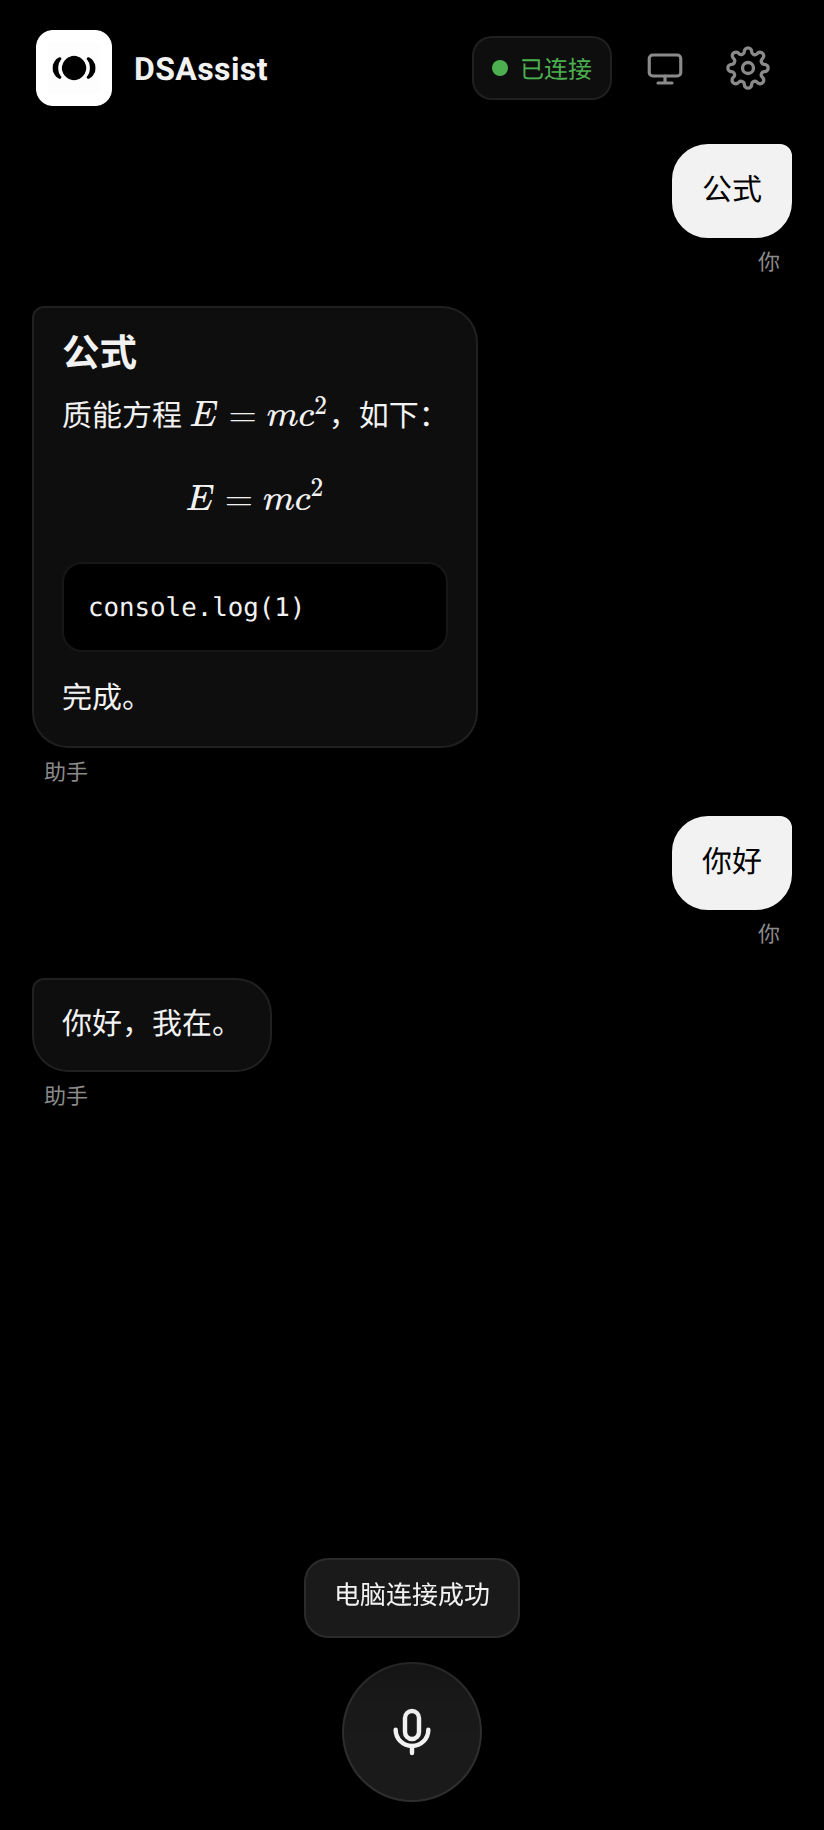
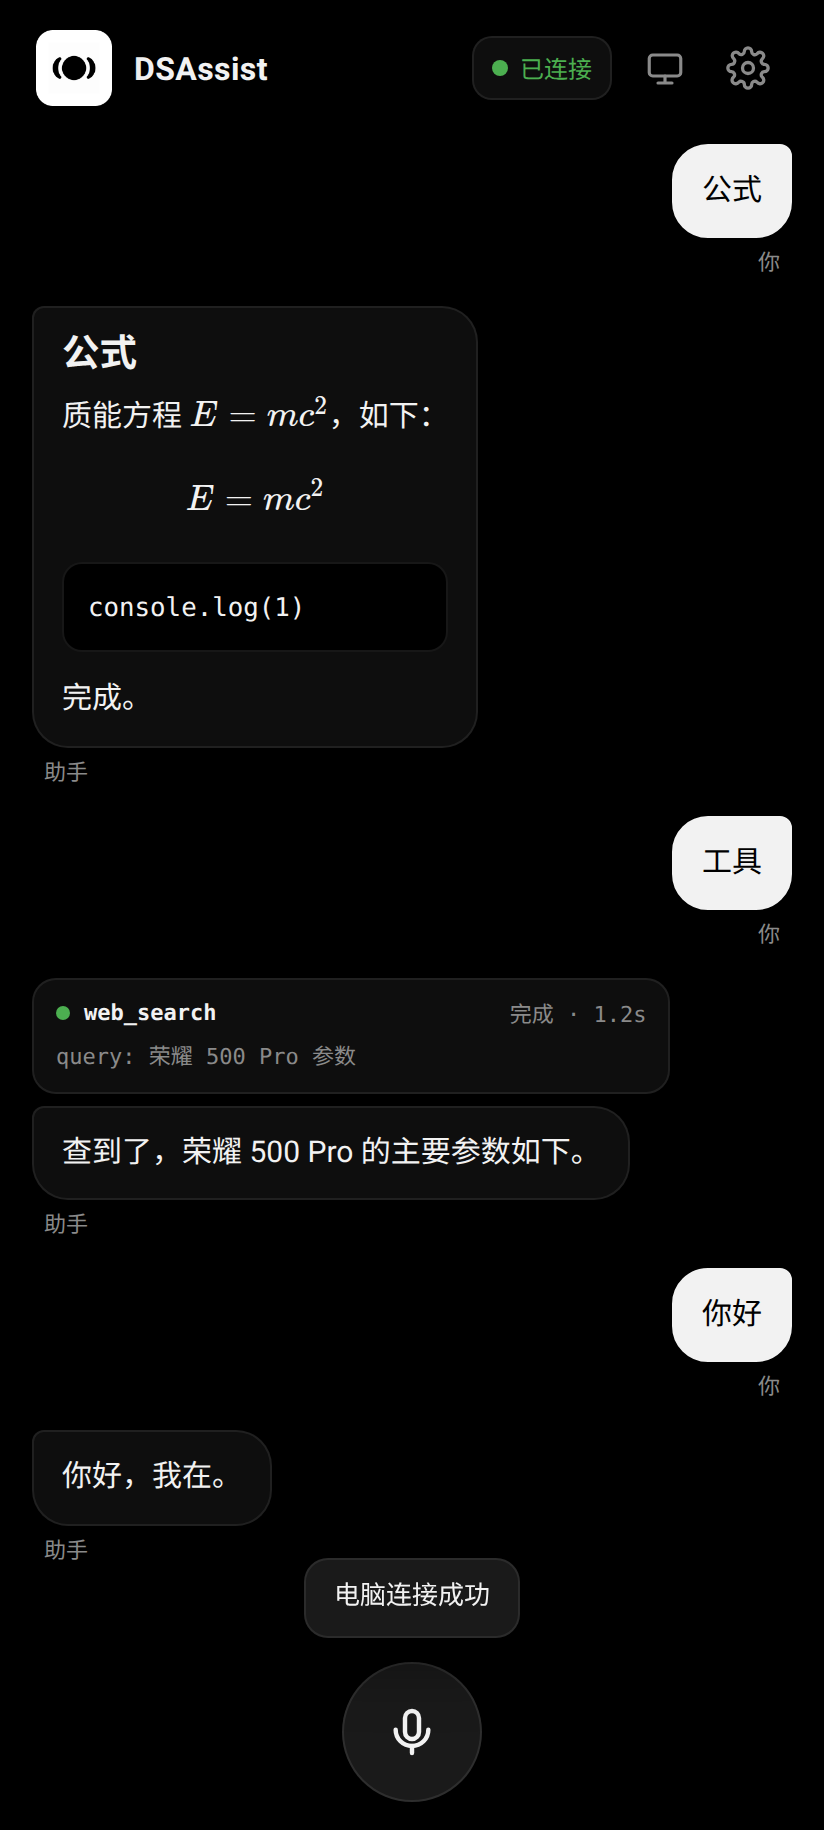
v1.0.12: tool timing trace and DSAssist paths

diff --git a/app/src/main/assets/js/features/chat/chat.js b/app/src/main/assets/js/features/chat/chat.js
@@ -51,10 +51,10 @@ function buildMessages() {
     hints.push('需要精确计算时调用 calculator 工具');
   }
   if (state.settings.opencodeEnabled) {
-    hints.push('需要分析代码时调用 ask_opencode，让电脑上的 opencode 只读分析项目 /home/user/dsassist-iterate');
+    hints.push('需要分析代码时调用 ask_opencode，让电脑上的 opencode 只读分析项目 /home/user/DSAssist-iterate');
   }
   if (state.settings.opencodeWriteEnabled) {
-    hints.push('需要修改代码时调用 edit_opencode，只允许修改 /home/user/dsassist-iterate；修改前说明计划，修改后说明 diff 和验证结果，禁止访问项目外目录和密钥文件');
+    hints.push('需要修改代码时调用 edit_opencode，只允许修改 /home/user/DSAssist-iterate；修改前说明计划，修改后说明 diff 和验证结果，禁止访问项目外目录和密钥文件');
   }
   const system = {
     role: 'system',
@@ -93,6 +93,7 @@ export function sendText(raw) {
   assistant.bubble.classList.add('streaming');
   state.assistantMsg = assistant.message;
   state.assistantBubble = assistant.bubble;
+  state.assistantTrace = assistant.trace;
   state.chatId = uid();
   ui.setStatus('思考中…');
 
@@ -129,7 +130,7 @@ export function handleToken(id, token) {
   }
 }
 
-export function handleTool(id, name) {
+export function handleToolStarted(id, name, argumentsJson) {
   if (id !== state.chatId) return;
   state.ttsStopIgnore++;
   callBridge('stopSpeaking');
@@ -143,8 +144,15 @@ export function handleTool(id, name) {
     state.assistantMsg.content = '';
     if (state.assistantBubble) state.assistantBubble.innerHTML = '';
   }
+  ui.addToolTrace(state.assistantTrace, name, argumentsJson);
   const label = name === 'web_search' ? '联网搜索中…' : name === 'calculator' ? '计算中…' : '使用工具…';
   ui.setStatus(label);
+}
+
+export function handleToolFinished(id, name, durationMs, success) {
+  if (id !== state.chatId) return;
+  ui.finishToolTrace(state.assistantTrace, name, durationMs, success);
+  ui.setStatus(success ? '工具完成，继续回答…' : '工具失败，继续回答…');
 }
 
 export function handleDone(id, full) {
@@ -161,6 +169,7 @@ export function handleDone(id, full) {
   }
   state.assistantMsg = null;
   state.assistantBubble = null;
+  state.assistantTrace = null;
   state.busy = false;
   ui.updateControls();
   if (!state.speaking) ui.setStatus('');
@@ -188,6 +197,7 @@ export function handleError(id, message) {
   }
   state.assistantMsg = null;
   state.assistantBubble = null;
+  state.assistantTrace = null;
   state.busy = false;
   ui.updateControls();
   ui.setStatus('');
@@ -211,6 +221,7 @@ export function abandonResponseForBargeIn() {
     }
     state.assistantMsg = null;
     state.assistantBubble = null;
+    state.assistantTrace = null;
     state.chatId = null;
     state.busy = false;
     ui.updateControls();

diff --git a/app/src/main/assets/js/ui/ui.js b/app/src/main/assets/js/ui/ui.js
@@ -225,10 +225,14 @@ function createMessageNode(message) {
   meta.className = 'meta';
   meta.textContent = message.role === 'user' ? '你' : '助手';
 
+  const trace = document.createElement('div');
+  trace.className = 'tool-trace hidden';
+
   messageMenu.bind(bubble, message);
+  if (message.role === 'assistant') row.appendChild(trace);
   row.appendChild(bubble);
   row.appendChild(meta);
-  return { row, bubble };
+  return { row, bubble, trace };
 }
 
 export function renderAssistantContent(bubble, text) {
@@ -243,7 +247,56 @@ export function appendMessage(role, content) {
   els.messages.appendChild(node.row);
   updateEmptyState();
   scrollToBottom(true);
-  return { message, bubble: node.bubble };
+  return { message, bubble: node.bubble, trace: node.trace };
+}
+
+function formatToolArgs(raw) {
+  try {
+    const value = JSON.parse(raw || '{}');
+    return Object.entries(value)
+      .map(([key, item]) => `${key}: ${String(item)}`)
+      .join('\n')
+      .slice(0, 240);
+  } catch (_) {
+    return String(raw || '').slice(0, 240);
+  }
+}
+
+export function addToolTrace(trace, name, argumentsJson) {
+  if (!trace) return;
+  trace.classList.remove('hidden');
+  const card = document.createElement('div');
+  card.className = 'tool-card running';
+  card.dataset.name = name;
+  const head = document.createElement('div');
+  head.className = 'tool-head';
+  const dot = document.createElement('span');
+  dot.className = 'tool-dot';
+  const title = document.createElement('span');
+  title.className = 'tool-name';
+  title.textContent = name;
+  const time = document.createElement('span');
+  time.className = 'tool-time';
+  time.textContent = '运行中…';
+  head.append(dot, title, time);
+  card.appendChild(head);
+  const args = document.createElement('div');
+  args.className = 'tool-args';
+  args.textContent = formatToolArgs(argumentsJson);
+  card.appendChild(args);
+  trace.appendChild(card);
+  scrollToBottom();
+}
+
+export function finishToolTrace(trace, name, durationMs, success) {
+  if (!trace) return;
+  const cards = Array.from(trace.querySelectorAll('.tool-card.running'));
+  const card = cards.reverse().find((item) => item.dataset.name === name);
+  if (!card) return;
+  card.classList.remove('running');
+  card.classList.add(success ? 'done' : 'failed');
+  const time = card.querySelector('.tool-time');
+  if (time) time.textContent = `${success ? '完成' : '失败'} · ${(durationMs / 1000).toFixed(1)}s`;
 }
 
 export function removeMessage(message) {

diff --git a/tools/ui-preview/run.js b/tools/ui-preview/run.js
@@ -97,6 +97,11 @@ await page.evaluateOnNewDocument(() => {
         window.Native.onChatToken(id, '```js\nconsole.log(1)\n```\n');
         window.Native.onChatToken(id, '完成。');
         window.Native.onChatDone(id, full);
+      } else if (lastUser.includes('工具')) {
+        window.Native.onChatToken(id, '我先查一下。');
+        setTimeout(() => window.Native.onToolStarted(id, 'web_search', JSON.stringify({ query: '荣耀 500 Pro 参数' })), 350);
+        setTimeout(() => window.Native.onToolFinished(id, 'web_search', 1234, true), 1500);
+        setTimeout(() => window.Native.onChatDone(id, '查到了，荣耀 500 Pro 的主要参数如下。'), 1700);
       } else {
         window.Native.onChatToken(id, '你好，');
         window.Native.onChatToken(id, '我在。');
@@ -193,6 +198,14 @@ await page.evaluate(({ x, y }) => {
 await new Promise((resolve) => setTimeout(resolve, 80));
 const copiedLength = await page.evaluate(() => (window.__copied || '').length);
 if (!copiedLength) throw new Error('message copy action did not run');
+await page.evaluate(() => {
+  document.getElementById('textInput').value = '';
+});
+await page.type('#textInput', '工具');
+await page.click('#sendBtn');
+await new Promise((resolve) => setTimeout(resolve, 1800));
+await shot('08-tool-trace.png');
+
 await page.click('#settingsBtn');
 await new Promise((resolve) => setTimeout(resolve, 150));
 await shot('03-settings.png');

diff --git a/app/src/main/assets/css/app.css b/app/src/main/assets/css/app.css
@@ -162,6 +162,54 @@
 
   .msg-row.user { align-items: flex-end; }
 
+  .tool-trace {
+    width: 84%;
+    display: flex;
+    flex-direction: column;
+    gap: 6px;
+    margin-bottom: 2px;
+  }
+
+  .tool-trace.hidden { display: none; }
+
+  .tool-card {
+    padding: 9px 11px;
+    border-radius: 12px;
+    border: 1px solid var(--border);
+    background: var(--panel);
+    font-family: ui-monospace, SFMono-Regular, Menlo, Consolas, monospace;
+    font-size: 11px;
+  }
+
+  .tool-head {
+    display: flex;
+    align-items: center;
+    gap: 7px;
+  }
+
+  .tool-dot {
+    width: 7px;
+    height: 7px;
+    border-radius: 50%;
+    background: #B07A4A;
+  }
+
+  .tool-card.running .tool-dot { animation: blink 1s steps(2, start) infinite; }
+  .tool-card.done .tool-dot { background: #4CAF50; }
+  .tool-card.failed .tool-dot { background: #C05050; }
+
+  .tool-name { color: var(--text); font-weight: 700; }
+  .tool-time { margin-left: auto; color: var(--muted); }
+  .tool-args {
+    margin-top: 6px;
+    color: var(--muted);
+    line-height: 1.45;
+    white-space: pre-wrap;
+    word-break: break-word;
+    max-height: 72px;
+    overflow: hidden;
+  }
+
   .bubble {
     max-width: 84%;
     padding: 11px 14px;

diff --git a/app/src/main/assets/js/features/settings/settings.js b/app/src/main/assets/js/features/settings/settings.js
@@ -20,7 +20,7 @@ export function openSettings() {
   ui.els.headsetMicInput.checked = state.settings.headsetMicEnabled === true;
   ui.els.opencodeEnabledInput.checked = state.settings.opencodeEnabled === true;
   ui.els.opencodeWriteInput.checked = state.settings.opencodeWriteEnabled === true;
-  ui.els.pcProjectInput.value = state.settings.pcProject || '/home/user/dsassist-iterate';
+  ui.els.pcProjectInput.value = state.settings.pcProject || '/home/user/DSAssist-iterate';
 
   const raw = callBridge('getAppInfo');
   if (typeof raw === 'string' && raw) {
@@ -53,7 +53,7 @@ function currentSettingsFromForm() {
     headsetMicEnabled: ui.els.headsetMicInput.checked,
     opencodeEnabled: ui.els.opencodeEnabledInput.checked,
     opencodeWriteEnabled: ui.els.opencodeWriteInput.checked,
-    pcProject: ui.els.pcProjectInput.value.trim() || '/home/user/dsassist-iterate',
+    pcProject: ui.els.pcProjectInput.value.trim() || '/home/user/DSAssist-iterate',
     pcHost: state.settings.pcHost || '',
     pcPort: state.settings.pcPort || 22,
     pcUser: state.settings.pcUser || ''

diff --git a/app/src/main/java/com/mindtravel/deepseekassistant/feature/chat/ui/ChatController.kt b/app/src/main/java/com/mindtravel/deepseekassistant/feature/chat/ui/ChatController.kt
@@ -64,9 +64,14 @@ class ChatController(
                             emitter.emit("onChatToken", requestId, text)
                         }
 
-                        override fun onToolStarted(name: String) {
+                        override fun onToolStarted(name: String, arguments: String) {
                             Logs.add("chat tool started=$name")
-                            emitter.emit("onTool", requestId, name)
+                            emitter.emit("onToolStarted", requestId, name, arguments)
+                        }
+
+                        override fun onToolFinished(name: String, durationMs: Long, success: Boolean) {
+                            Logs.add("chat tool finished=$name ${durationMs}ms success=$success")
+                            emitter.emit("onToolFinished", requestId, name, durationMs, success)
                         }
 
                         override fun onCompleted(text: String) {

diff --git a/app/src/main/java/com/mindtravel/deepseekassistant/core/settings/AppSettings.kt b/app/src/main/java/com/mindtravel/deepseekassistant/core/settings/AppSettings.kt
@@ -18,7 +18,7 @@ data class AppSettings(
     val headsetMicEnabled: Boolean = false,
     val opencodeEnabled: Boolean = false,
     val opencodeWriteEnabled: Boolean = false,
-    val pcProject: String = "/home/user/dsassist-iterate"
+    val pcProject: String = "/home/user/DSAssist-iterate"
 ) {
     fun toJson(): JSONObject = JSONObject().apply {
         put("apiKey", apiKey)
@@ -57,7 +57,7 @@ data class AppSettings(
                 opencodeEnabled = json.optBoolean("opencodeEnabled", false),
                 opencodeWriteEnabled = json.optBoolean("opencodeWriteEnabled", false),
                 pcProject = json.stringOrEmpty("pcProject").trim()
-                    .ifBlank { "/home/user/dsassist-iterate" }
+                    .ifBlank { "/home/user/DSAssist-iterate" }
             )
         }
     }

diff --git a/app/src/main/assets/js/features/settings/settings-store.js b/app/src/main/assets/js/features/settings/settings-store.js
@@ -15,7 +15,7 @@ export const DEFAULT_SETTINGS = Object.freeze({
   headsetMicEnabled: false,
   opencodeEnabled: false,
   opencodeWriteEnabled: false,
-  pcProject: '/home/user/dsassist-iterate'
+  pcProject: '/home/user/DSAssist-iterate'
 });
 
 function string(value, fallback = '') {
@@ -38,7 +38,7 @@ export function normalizeSettings(raw) {
     headsetMicEnabled: raw?.headsetMicEnabled === true,
     opencodeEnabled: raw?.opencodeEnabled === true,
     opencodeWriteEnabled: raw?.opencodeWriteEnabled === true,
-    pcProject: string(raw?.pcProject, '/home/user/dsassist-iterate').trim() || '/home/user/dsassist-iterate'
+    pcProject: string(raw?.pcProject, '/home/user/DSAssist-iterate').trim() || '/home/user/DSAssist-iterate'
   };
 }
 

diff --git a/app/src/main/java/com/mindtravel/deepseekassistant/feature/chat/model/ChatSession.kt b/app/src/main/java/com/mindtravel/deepseekassistant/feature/chat/model/ChatSession.kt
@@ -89,8 +89,12 @@ class ChatSession(
             )
 
             for (call in calls) {
-                callbacks.onToolStarted(call.name)
+                callbacks.onToolStarted(call.name, call.arguments)
+                val startedAt = System.nanoTime()
                 val result = tools.execute(call.name, call.arguments)
+                val durationMs = (System.nanoTime() - startedAt) / 1_000_000
+                val success = !result.startsWith("工具执行失败") && !result.startsWith("未知工具")
+                callbacks.onToolFinished(call.name, durationMs, success)
                 messages += ChatMessage(
                     role = Role.TOOL,
                     content = result,

diff --git a/app/src/main/java/com/mindtravel/deepseekassistant/feature/settings/data/SettingsRepository.kt b/app/src/main/java/com/mindtravel/deepseekassistant/feature/settings/data/SettingsRepository.kt
@@ -53,7 +53,7 @@ class SettingsRepository(context: Context) : SettingsGateway {
             headsetMicEnabled = prefs.getBoolean("headsetMicEnabled", false),
             opencodeEnabled = false,
             opencodeWriteEnabled = false,
-            pcProject = "/home/user/dsassist-iterate"
+            pcProject = "/home/user/DSAssist-iterate"
         )
         save(legacy)
         Logs.add("Settings migrated to v2")

diff --git a/app/src/test/java/com/mindtravel/deepseekassistant/feature/chat/model/ChatStreamParserTest.kt b/app/src/test/java/com/mindtravel/deepseekassistant/feature/chat/model/ChatStreamParserTest.kt
@@ -134,9 +134,11 @@ class ChatSessionTest {
             tokens += text
         }
 
-        override fun onToolStarted(name: String) {
+        override fun onToolStarted(name: String, arguments: String) {
             tools += name
         }
+
+        override fun onToolFinished(name: String, durationMs: Long, success: Boolean) = Unit
 
         override fun onCompleted(text: String) {
             completed = text

diff --git a/app/src/main/assets/js/app.js b/app/src/main/assets/js/app.js
@@ -51,8 +51,12 @@ window.Native = {
     chat.handleToken(id, token);
   },
 
-  onTool(id, name) {
-    chat.handleTool(id, name);
+  onToolStarted(id, name, argumentsJson) {
+    chat.handleToolStarted(id, name, argumentsJson);
+  },
+
+  onToolFinished(id, name, durationMs, success) {
+    chat.handleToolFinished(id, name, durationMs, success);
   },
 
   onChatDone(id, full) {
